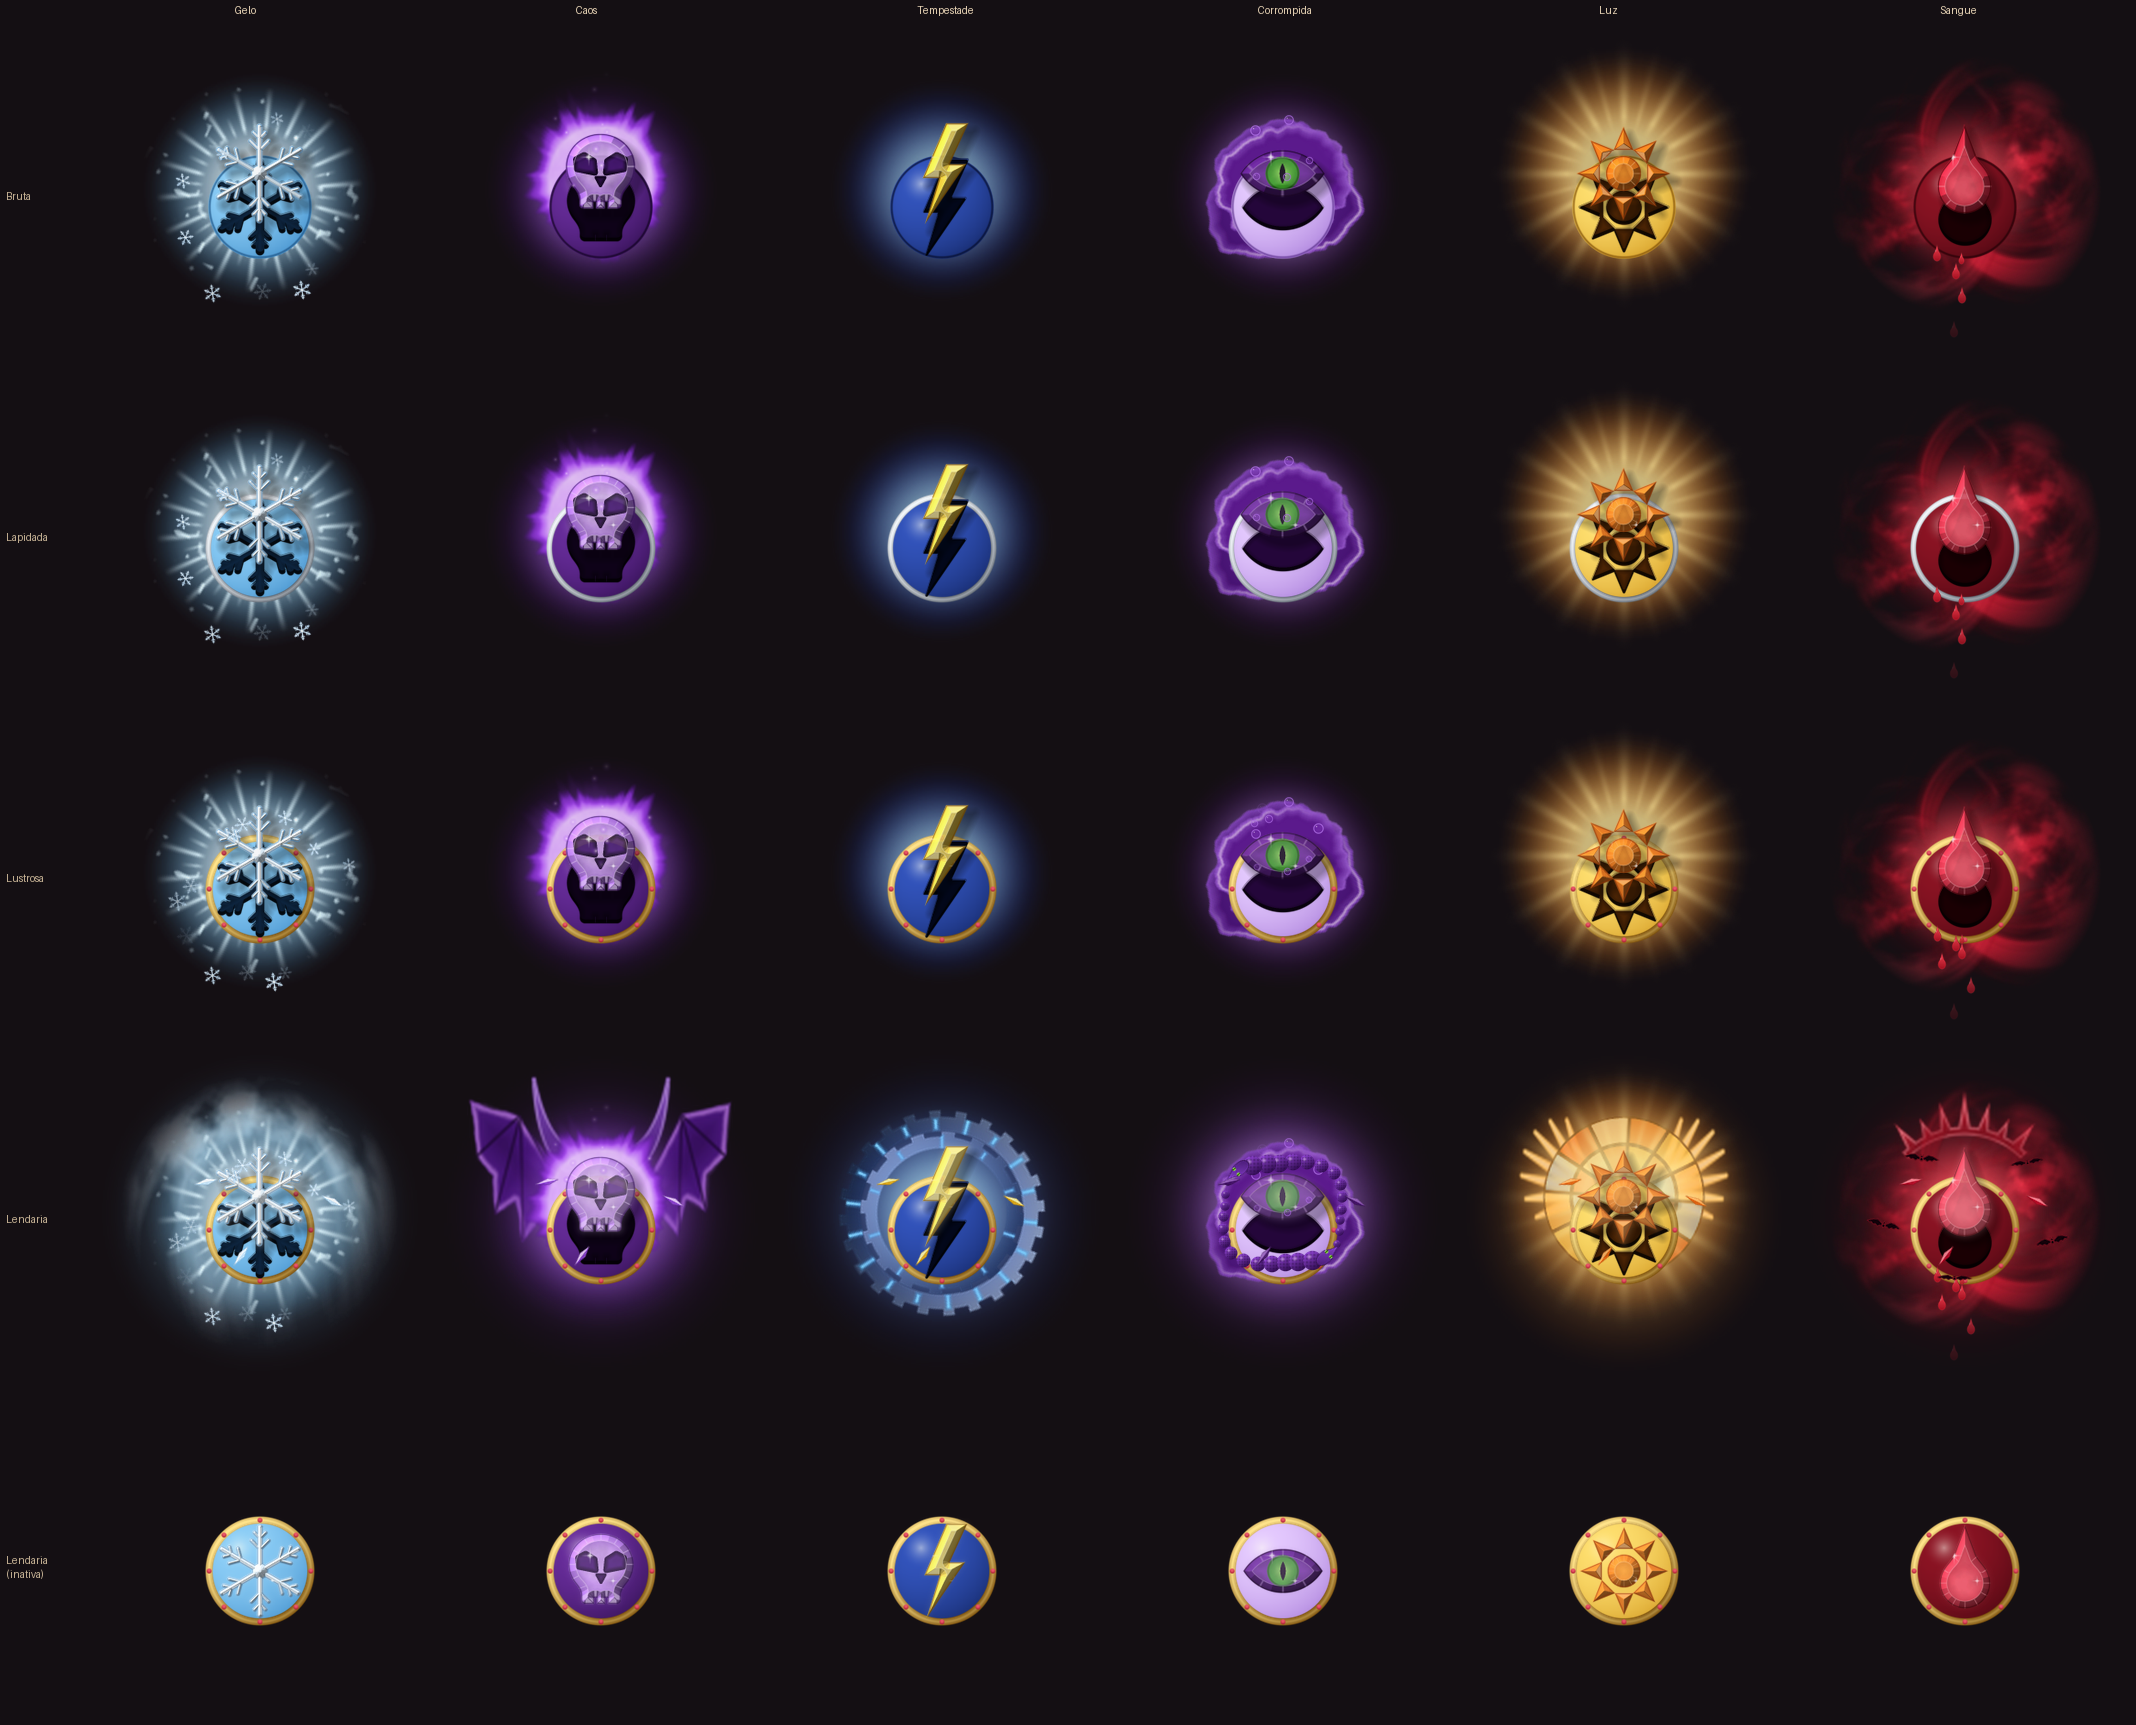
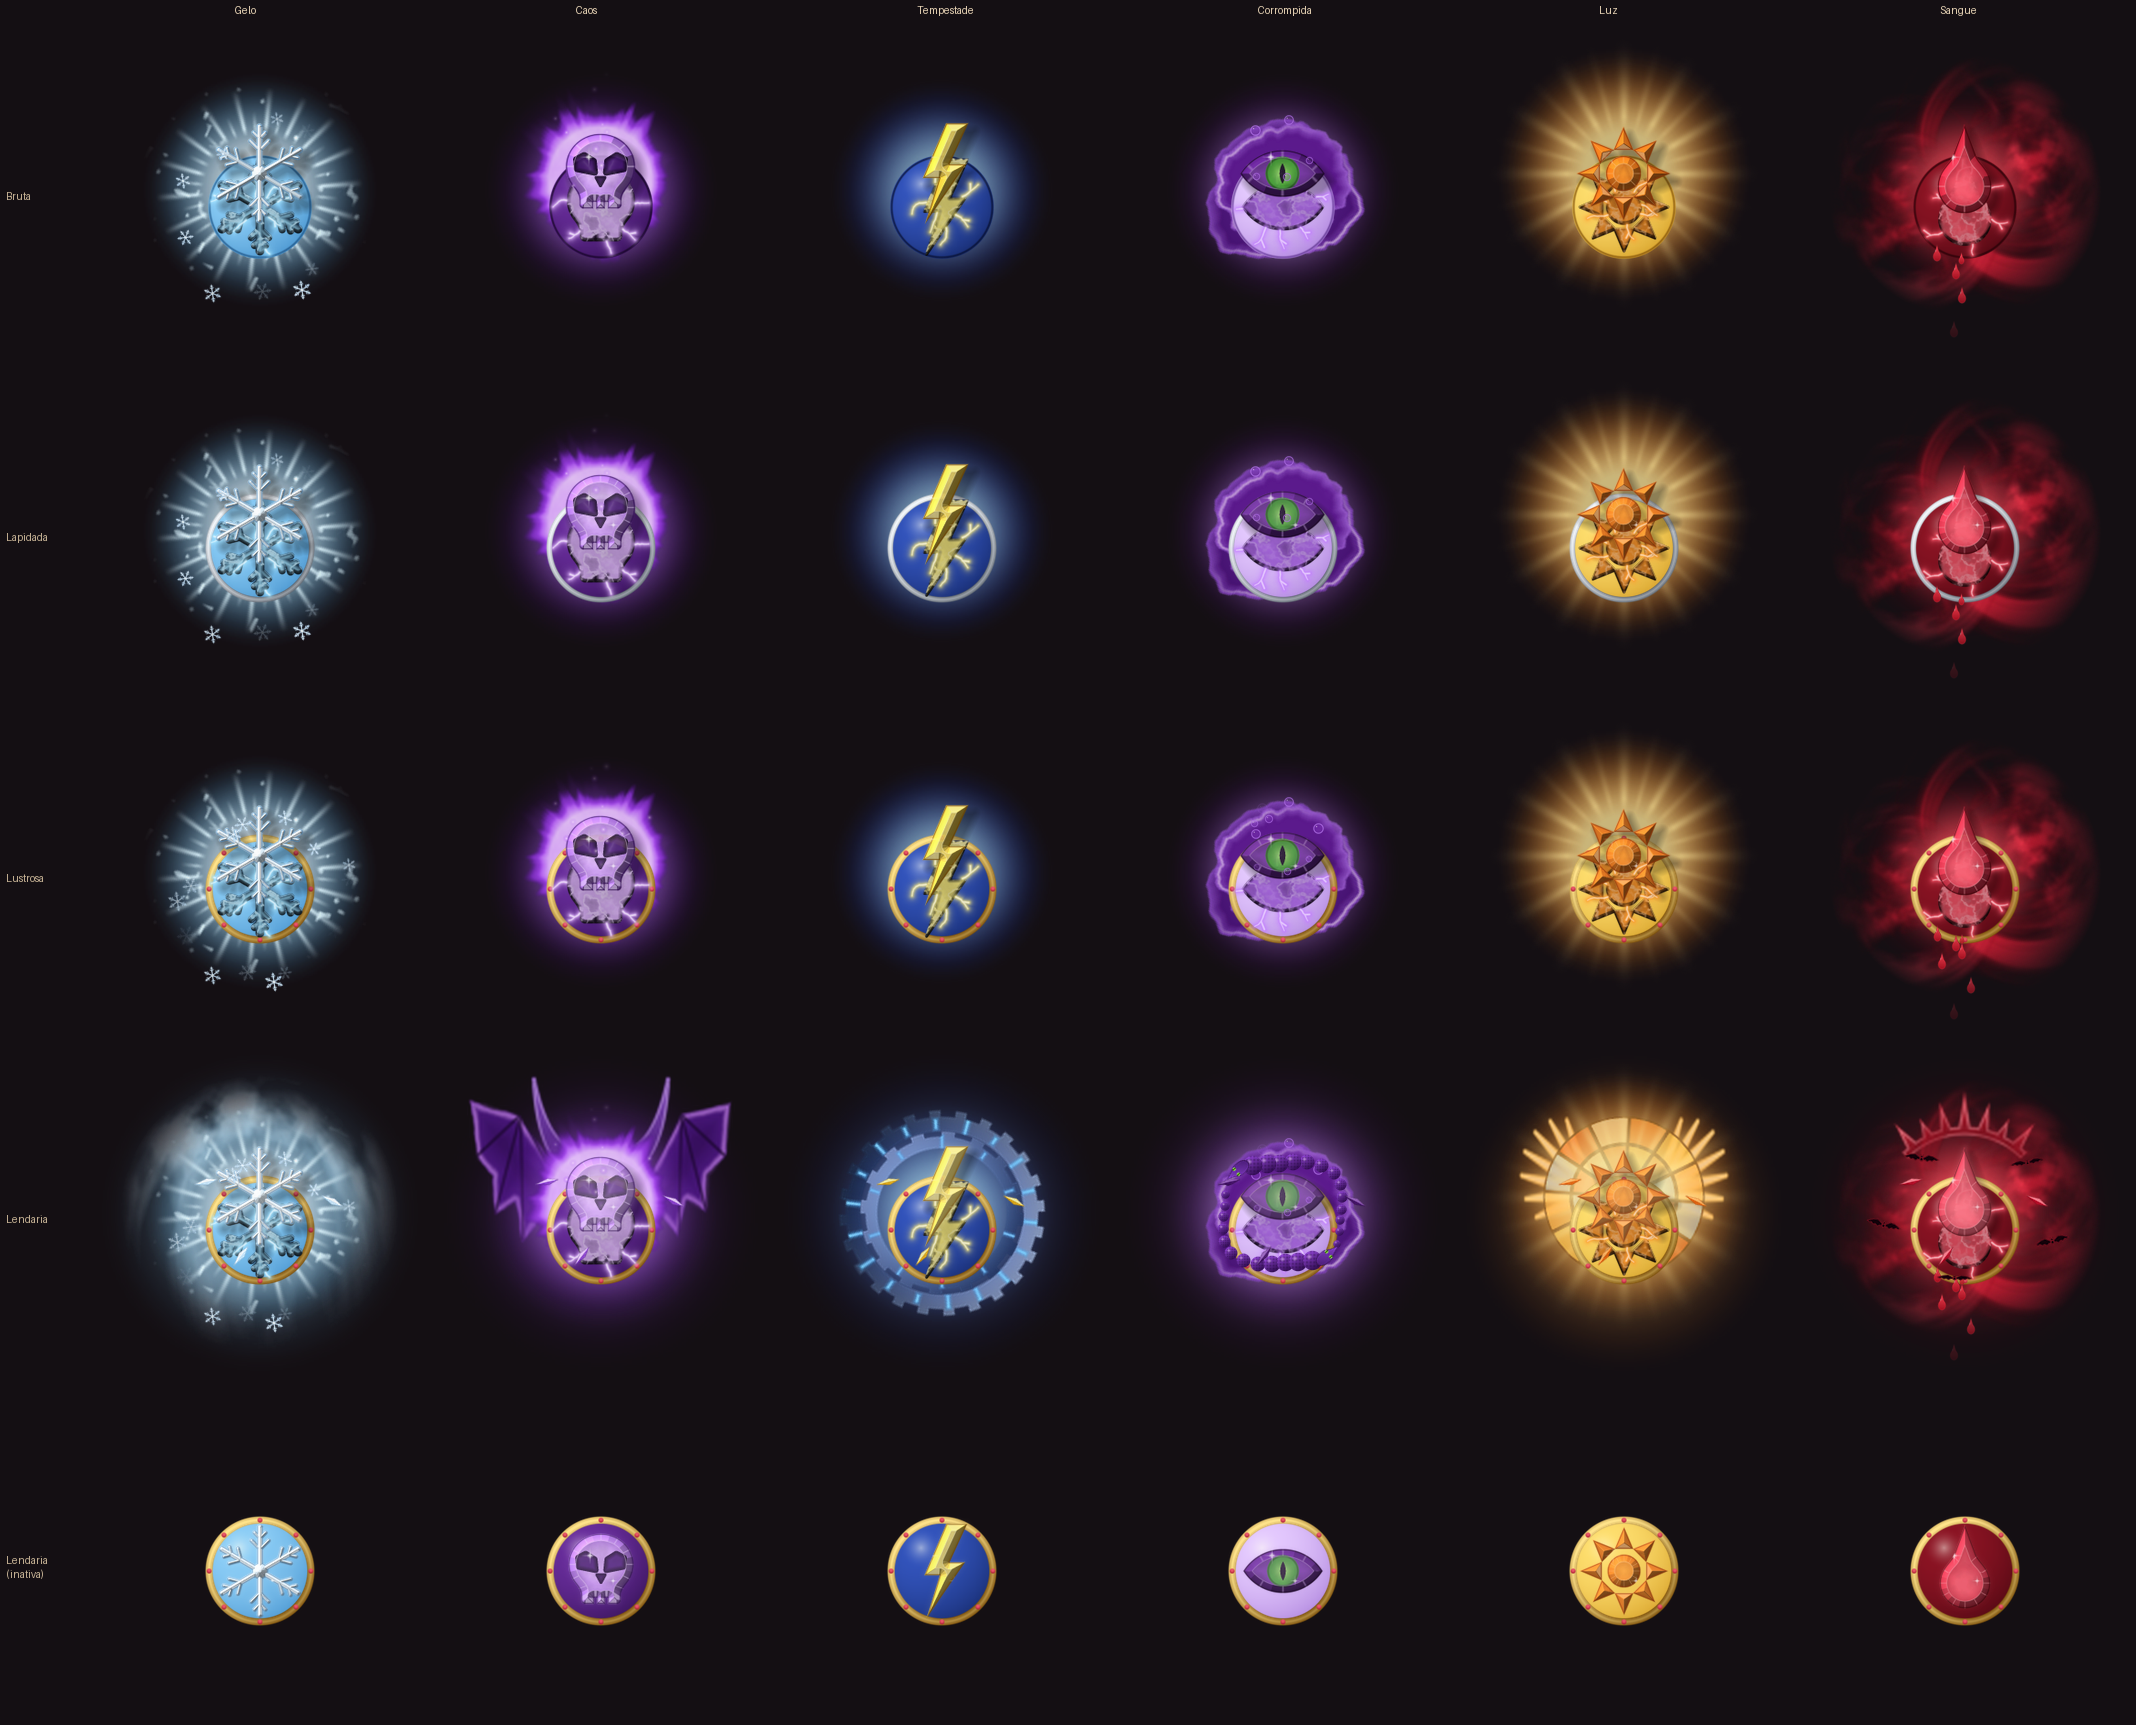
2.2.0: rachaduras e energia da cor da joia no buraco
Claude-Session: https://claude.ai/code/session_01DjNdgvifZSdmPf3WafSU9R

diff --git a/src/GemArt.cs b/src/GemArt.cs
@@ -29,6 +29,7 @@ internal sealed class GemStyle
     // Evolução por tempo de uso.
     public int Gem2, RingSilver, RingGold, GemGlow, Shard, Progress;
     public int M1 = -1, M2 = -1;   // motivos do nível Lendário
+    public int Cracks, EnergyA, EnergyB; // rachaduras e energia no buraco da joia
 
     public const int Bruta = 0, Lapidada = 1, Lustrosa = 2, Lendaria = 3;
 
@@ -54,6 +55,13 @@ internal sealed class GemStyle
         {
             o.Add(new Spr(Hole, 0, 0, 1, 1, 0, e));
             o.Add(new Spr(Shadow, 0.05f * e, lift - 0.07f * e, s, s, 0, 0.4f * e));
+            // Energia da cor da joia ondulando dentro do buraco (duas texturas se alternando).
+            float w = 0.5f + 0.5f * MathF.Sin(t * 2.1f);
+            float pulseE = 0.88f + 0.12f * MathF.Sin(t * 3.3f);
+            o.Add(new Spr(EnergyA, 0, 0, 1, 1, 0, e * pulseE));          // sempre acesa
+            o.Add(new Spr(EnergyB, 0, 0, 1, 1, 0, e * w * 0.85f));      // ondulação por cima
+            // Rachaduras saindo do buraco, brilho pulsando.
+            o.Add(new Spr(Cracks, 0, 0, 1, 1, 0, e * (0.7f + 0.3f * MathF.Sin(t * 4.1f + 1f))));
         }
         o.Add(new Spr(level >= Lapidada ? Gem2 : Gem, gx, gy, s, s, 0, 1));
         if (level >= Lendaria)   // luz interna pulsando, mesmo encaixada
@@ -320,7 +328,7 @@ internal static class GemArt
                 break;
 
             case Gelo:
-                Base(g, 0x2F7FC0, 0x8FD0F8, 0x1A4F80, Flake, 0xBFE2FA, 0xFFFFFF, 0x4F86B4, 0x0F2A48);
+                Base(g, 0x2F7FC0, 0x8FD0F8, 0x1A4F80, Flake, 0xBFE2FA, 0xFFFFFF, 0x4F86B4, 0x0F2A48, energy: 0xA8E6FF);
                 g.Halo = g.Add(S, Halo(0xE6F8FF, 0x5FB8F0));
                 g.A1 = g.Add(S, Frost());
                 g.Particle = g.Add(P, Small(P, Flake, 0xCFE8FF, 0xFFFFFF, 0x7FB0D8));
@@ -329,7 +337,7 @@ internal static class GemArt
                 break;
 
             case Corrompida:
-                Base(g, 0x9A6AD0, 0xE6CCFF, 0x5A2E8A, Eye, 0x3A0F5A, 0x6E2A9E, 0x16031F, 0x24063A, EyeColor);
+                Base(g, 0x9A6AD0, 0xE6CCFF, 0x5A2E8A, Eye, 0x3A0F5A, 0x6E2A9E, 0x16031F, 0x24063A, EyeColor, energy: 0xC27CFF);
                 g.Halo = g.Add(S, Halo(0xD8A8FF, 0x5B178F));
                 g.A1 = g.Add(S, Liquid(2.3f, 0x4A1078, 0xB070F0));
                 g.A2 = g.Add(S, Liquid(9.1f, 0x5E1A90, 0xC890FF));
@@ -362,8 +370,9 @@ internal static class GemArt
     delegate (float r, float g, float b)? GemColorFn(float x, float y, float d);
 
     static void Base(GemStyle g, int ballDark, int ballLight, int ballRim, Sd shape,
-                     int gemDark, int gemLight, int gemEdge, int hole, GemColorFn? custom = null)
+                     int gemDark, int gemLight, int gemEdge, int hole, GemColorFn? custom = null, int energy = -1)
     {
+        int en = energy >= 0 ? energy : gemLight;
         g.Ball = g.Add(S, BallTex(ballDark, ballLight, ballRim));
         g.Hole = g.Add(S, HoleTex(shape, hole, ballLight));
         g.Shadow = g.Add(S, ShadowTex(shape));
@@ -374,6 +383,9 @@ internal static class GemArt
         g.GemGlow = g.Add(S, GlowTex(shape, gemLight));
         g.Shard = g.Add(P, CrystalSmall(P, ShardShape, gemDark, gemLight, gemEdge));
         g.Progress = g.Add(S, ProgressRing());
+        g.Cracks = g.Add(S, CracksTex(shape, en, g.Kind * 97 + 13));
+        g.EnergyA = g.Add(S, EnergyTex(shape, en, 3.7f + g.Kind));
+        g.EnergyB = g.Add(S, EnergyTex(shape, en, 11.3f + g.Kind));
     }
 
     // ───────────────────────── formas (distância com sinal) ─────────────────────────
@@ -846,6 +858,77 @@ internal static class GemArt
     });
 
     static float Len3(float x, float y, float z) => MathF.Sqrt(x * x + y * y + z * z);
+
+    /// <summary>Energia brilhante ondulando dentro do buraco (mais forte no fundo, escura junto à borda de cima).</summary>
+    static float[] EnergyTex(Sd shape, int color, float seed) => Paint(S, (x, y) =>
+    {
+        float d = shape(x, y) - 0.025f;
+        float a = Cover(d, S);
+        if (a <= 0f) return default;
+        float n = Fbm(x * 4.5f + seed, y * 4.5f - seed * 0.6f);
+        float veins = Clamp01(1f - MathF.Abs(n - 0.5f) / 0.09f);          // filetes de energia
+        float depth = Clamp01(-d / 0.08f);
+        float glow = Clamp01(0.70f + 0.5f * n) * depth + veins;
+        var col = Rgb(color);
+        var c = Mix((col.r * 0.75f, col.g * 0.75f, col.b * 0.75f), col, n);   // corpo saturado na cor da joia
+        c = Mix(c, (1f, 1f, 1f), veins * 0.45f);                             // filetes mais claros
+        bool topEdge = shape(x, y - 0.07f) - 0.025f > 0f;                 // sombra da borda de cima
+        if (topEdge) glow *= 0.5f;
+        return (c.r, c.g, c.b, a * Clamp01(glow));
+    });
+
+    /// <summary>Rachaduras saindo da borda do buraco pela bola, brilhando na cor da joia.</summary>
+    static float[] CracksTex(Sd shape, int color, int seed)
+    {
+        var rng = new Random(seed);
+        var lines = new List<(float x, float y)[]>();
+        int count = 7;
+        for (int i = 0; i < count; i++)
+        {
+            float ang = (i + (float)rng.NextDouble() * 0.6f) / count * MathF.Tau;
+            float dx = MathF.Cos(ang), dy = MathF.Sin(ang);
+            // Acha a borda do buraco andando do centro para fora nessa direção.
+            float r0 = 0.05f;
+            while (r0 < 0.9f && shape(dx * r0, dy * r0) - 0.025f < 0f) r0 += 0.01f;
+            if (r0 >= 0.88f) continue;
+            float len = 0.22f + (float)rng.NextDouble() * 0.25f;
+            var pts = new List<(float, float)> { (dx * r0, dy * r0) };
+            float cx = dx * r0, cy = dy * r0, a = ang;
+            int steps = 6;
+            for (int k = 0; k < steps; k++)
+            {
+                a += ((float)rng.NextDouble() - 0.5f) * 0.9f;
+                float st = len / steps;
+                cx += MathF.Cos(a) * st; cy += MathF.Sin(a) * st;
+                if (Len(cx, cy) > 0.90f) break;
+                pts.Add((cx, cy));
+                // Galho pequeno de vez em quando.
+                if (k == 2 && rng.NextDouble() < 0.6)
+                {
+                    float ba = a + (rng.NextDouble() < 0.5 ? -0.8f : 0.8f);
+                    float bx = cx + MathF.Cos(ba) * len * 0.35f, by = cy + MathF.Sin(ba) * len * 0.35f;
+                    if (Len(bx, by) < 0.90f) lines.Add(new[] { (cx, cy), (bx, by) });
+                }
+            }
+            if (pts.Count > 1) lines.Add(pts.ToArray());
+        }
+        return Paint(S, (x, y) =>
+        {
+            if (Len(x, y) > 0.93f) return default;
+            float d = 9f;
+            foreach (var pts in lines)
+                for (int j = 0; j + 1 < pts.Length; j++)
+                {
+                    // Afina ao longo da rachadura.
+                    float sd = Seg(x, y, pts[j].x, pts[j].y, pts[j + 1].x, pts[j + 1].y) - 0.016f * (1f - j / (float)pts.Length * 0.6f);
+                    d = MathF.Min(d, sd);
+                }
+            float core = Clamp01(0.5f - d * S * 0.5f);
+            float glow = MathF.Exp(-Math.Max(d, 0f) / 0.045f) * 0.9f;
+            var c = Mix(Rgb(color), (1f, 1f, 1f), core * 0.6f);
+            return (c.r, c.g, c.b, Clamp01(Math.Max(core, glow)));
+        });
+    }
 
     static float[] HoleTex(Sd shape, int dark, int lipColor) => Paint(S, (x, y) =>
     {

diff --git a/src/AssemblyInfo.cs b/src/AssemblyInfo.cs
@@ -4,6 +4,6 @@ using System.Reflection;
 [assembly: AssemblyProduct("CorrenteRapida")]
 [assembly: AssemblyDescription("Barra de troca rápida das Correntes do Draekhar: um clique troca de elemento sem abrir a janela. Joias animadas que evoluem com o tempo de uso.")]
 [assembly: AssemblyCompany("Sangria Falls (mod de jogador)")]
-[assembly: AssemblyVersion("2.1.0.0")]
-[assembly: AssemblyFileVersion("2.1.0.0")]
-[assembly: AssemblyInformationalVersion("2.1.0")]
+[assembly: AssemblyVersion("2.2.0.0")]
+[assembly: AssemblyFileVersion("2.2.0.0")]
+[assembly: AssemblyInformationalVersion("2.2.0")]

diff --git a/src/Plugin.cs b/src/Plugin.cs
@@ -10,7 +10,7 @@ public class Plugin : BasePlugin
 {
     public const string Guid = "sangria.correnterapida";
     public const string Name = "CorrenteRapida";
-    public const string Version = "2.1.0";
+    public const string Version = "2.2.0";
 
     internal static ManualLogSource L = null!;
     internal static Settings S = null!;
